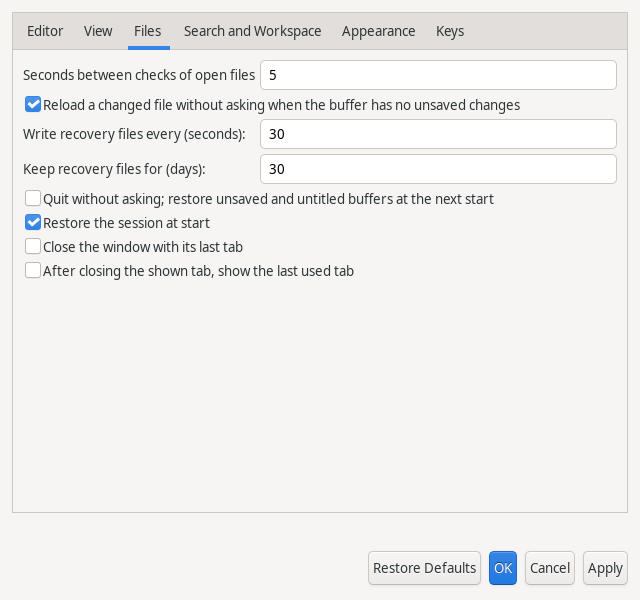
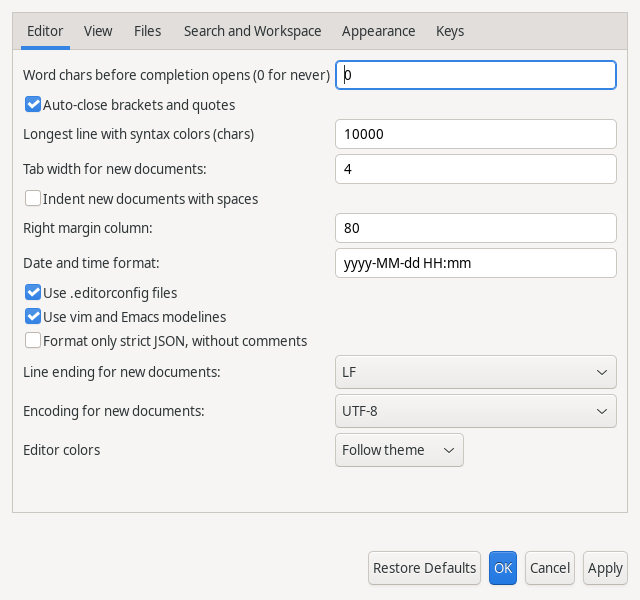
Document the v0.1.1 commands, add their tips, and show Strict JSON and the Insert Number Sequence dialog in the guide

diff --git a/qcaret-app/src/main/java/io/github/ajdailey/qcaret/app/i18n/UiText.java b/qcaret-app/src/main/java/io/github/ajdailey/qcaret/app/i18n/UiText.java
@@ -625,6 +625,26 @@ public enum UiText {
   TIP_COMPLETE_WORD,
   /** A tip; takes {@link #TIP_KEY} formatted, or empty. */
   TIP_KEYBOARD_SHORTCUTS,
+  /** A tip; takes {@link #TIP_KEY} formatted, or empty. */
+  TIP_FORMAT_JSON,
+  /** A tip; takes {@link #TIP_KEY} formatted, or empty. */
+  TIP_ENCODE_DECODE,
+  /** A tip; takes {@link #TIP_KEY} formatted, or empty. */
+  TIP_LINE_CLEANUP,
+  /** A tip; takes {@link #TIP_KEY} formatted, or empty. */
+  TIP_SORT_NUMERIC,
+  /** A tip; takes {@link #TIP_KEY} formatted, or empty. */
+  TIP_NUMBER_SEQUENCE,
+  /** A tip; takes {@link #TIP_KEY} formatted, or empty. */
+  TIP_OPEN_PATH_AT_CARET,
+  /** A tip; takes {@link #TIP_KEY} formatted, or empty. */
+  TIP_COPY_JSON_PATH,
+  /** A tip; takes {@link #TIP_KEY} formatted, or empty. */
+  TIP_FULL_SCREEN,
+  /** A tip without a key. */
+  TIP_RESULTS_COPY,
+  /** A tip without a key. */
+  TIP_STATUS_MENUS,
   /** Command label. */
   COMMAND_SHOW_LOG,
   /** Command label. */

diff --git a/qcaret-app/src/main/java/io/github/ajdailey/qcaret/app/about/TipList.java b/qcaret-app/src/main/java/io/github/ajdailey/qcaret/app/about/TipList.java
@@ -62,6 +62,16 @@ public final class TipList {
     add(list, UiText.TIP_TOGGLE_LINE_COMMENT, CommandId.TOGGLE_LINE_COMMENT);
     add(list, UiText.TIP_COMPLETE_WORD, CommandId.COMPLETE_WORD);
     add(list, UiText.TIP_KEYBOARD_SHORTCUTS, CommandId.KEYBOARD_SHORTCUTS);
+    add(list, UiText.TIP_FORMAT_JSON, CommandId.PRETTY_PRINT_JSON);
+    add(list, UiText.TIP_ENCODE_DECODE, CommandId.BASE64_DECODE);
+    add(list, UiText.TIP_LINE_CLEANUP, CommandId.REMOVE_BLANK_LINES);
+    add(list, UiText.TIP_SORT_NUMERIC, CommandId.SORT_LINES_NUMERIC);
+    add(list, UiText.TIP_NUMBER_SEQUENCE, CommandId.INSERT_NUMBER_SEQUENCE);
+    add(list, UiText.TIP_OPEN_PATH_AT_CARET, CommandId.OPEN_PATH_AT_CARET);
+    add(list, UiText.TIP_COPY_JSON_PATH, CommandId.COPY_JSON_PATH);
+    add(list, UiText.TIP_FULL_SCREEN, CommandId.FULL_SCREEN);
+    add(list, UiText.TIP_RESULTS_COPY, null);
+    add(list, UiText.TIP_STATUS_MENUS, null);
     return List.copyOf(list);
   }
 

diff --git a/qcaret-ui-swt/src/test/java/io/github/ajdailey/qcaret/ui/swt/GuideScreenshotsTest.java b/qcaret-ui-swt/src/test/java/io/github/ajdailey/qcaret/ui/swt/GuideScreenshotsTest.java
@@ -302,11 +302,21 @@ class GuideScreenshotsTest {
     settle();
     save(window.shell(), "guides.png");
 
+    controller.execute(CommandId.INSERT_NUMBER_SEQUENCE);
+    dialog("number-sequence.png");
+    NumberSequenceDialog sequence = window.numberSequenceDialog();
+    sequence.start().setText("0x10");
+    sequence.step().setText("0x10");
+    sequence.width().setSelection(4);
+    sequence.base().select(1);
+    settle();
+    saveDialog("number-sequence.png");
+
     controller.execute(CommandId.PREFERENCES);
     Shell preferences = dialog("preferences.png");
     TabFolder tabs = find(preferences, TabFolder.class);
     assertNotNull(tabs);
-    tabs.setSelection(PreferencesForm.Group.FILES.ordinal());
+    tabs.setSelection(PreferencesForm.Group.EDITOR.ordinal());
     settle();
     saveDialog("preferences.png");
 

diff --git a/qcaret-app/src/test/java/io/github/ajdailey/qcaret/app/about/TipListTest.java b/qcaret-app/src/test/java/io/github/ajdailey/qcaret/app/about/TipListTest.java
@@ -45,6 +45,19 @@ class TipListTest {
   }
 
   @Test
+  void theFullScreenTipNamesEachPlatformsKey() {
+    int fullScreen = indexOf(UiText.TIP_FULL_SCREEN);
+    assertTrue(
+        TipList.text(fullScreen, Keymap.defaults(false, true))
+            .startsWith("View > Full Screen (F11) fills"));
+    Keymap mac = Keymap.defaults(true, false);
+    assertTrue(
+        TipList.text(fullScreen, mac)
+            .startsWith("View > Full Screen (" + mac.menuKeyText(CommandId.FULL_SCREEN) + ") "));
+    assertFalse(mac.menuKeyText(CommandId.FULL_SCREEN).contains("F11"));
+  }
+
+  @Test
   void anUnboundCommandsTipHasNoKey() {
     Keymap keymap = Keymap.defaults(false, true);
     assertEquals("", keymap.menuKeyText(CommandId.ALWAYS_ON_TOP));

diff --git a/docs/user-guide.md b/docs/user-guide.md
@@ -214,7 +214,7 @@ apply (measured on Linux, one million lines):
 | Operation | Time |
 |---|---|
 | Theme switch or font change (View > Zoom In, Zoom Out, Reset Zoom; Preferences) | About 1 s per view; a split document has two |
-| Sort, Remove Duplicate Lines, Trim Trailing Whitespace, line-ending conversion: the new text replaces the document's, with a busy cursor | Sort: 1.2-2.0 s after the sorted text is computed in the background; the others not measured |
+| Sort, the Edit > Line commands, Encode/Decode Text, Format XML and JSON, line-ending conversion: the new text replaces the document's, with a busy cursor | Sort: 1.2-2.0 s after the sorted text is computed in the background; the others not measured |
 
 ## The main window
 
@@ -291,9 +291,9 @@ apply (measured on Linux, one million lines):
   `#`. A blank line ends a paragraph. Undo restores the text in one step.
 - A right click in the text opens Undo, Redo, Cut, Copy, Paste, Select All,
   Toggle Bookmark, Edit Bookmark Comment, Toggle Fold, Open Path at Caret, the
-  Format XML and JSON and Encode/Decode Text cascades, Toggle Line Comment and Convert Case for that
-  view. A click in a selection keeps it; a click elsewhere moves the caret
-  there first.
+  Format XML and JSON and Encode/Decode Text cascades, Toggle Line Comment and
+  the Convert Case cascade for that view. A click in a selection keeps it; a
+  click elsewhere moves the caret there first.
 - The overview strip beside the scroll bar marks find matches, HyperSearch
   matches and bookmarks across the whole document; a click or drag scrolls
   there.
@@ -304,18 +304,19 @@ apply (measured on Linux, one million lines):
 - The status bar shows notices, the read-only marker, line and column, the
   selection, encoding, line endings and language. A click on the language
   chooses a grammar, one on the encoding reopens or saves with another
-  encoding, and one on the line endings converts them to LF, CRLF or CR. A Warnings link appears when QCaret logs a warning and opens
-  Help > Show Log.
+  encoding, and one on the line endings converts them to LF, CRLF or CR. A
+  Warnings link appears when QCaret logs a warning and opens Help > Show Log.
 - The pointer shows the busy cursor, an arrow with a spinner, while a command
   works in the background, and the window stays usable. It shows over the
   window for opening, saving, Save As, Save a Copy, reloading and comparing
   files, line-ending conversion, Recent Files > Clean Up, Open All, dropped
   files, Go Back and Go Forward to a closed file, the workspace browser's folder
   changes, New File, New Folder, Rename and Delete, HyperSearch's folder check,
-  opening a search result, the replace preview, Restore Replace Run's list,
-  Generate from Selection into Clipboard, Reload Grammars, the Help menu's
-  About, licenses, user guide, Debug Log File and folders, and the memory
-  indicator's garbage collection. It shows over the editor for Sort, Remove
+  opening a search result, Open Path at Caret, copying a large set of search
+  results or a long bookmarked line, the replace preview, Restore Replace Run's
+  list, Generate from Selection into Clipboard, Reload Grammars, the Help
+  menu's About, licenses, user guide, Debug Log File and folders, and the
+  memory indicator's garbage collection. It shows over the editor for Sort, Remove
   Duplicate and Blank Lines, Reverse Lines, Trim Leading and Trailing
   Whitespace, Wrap Paragraph, Convert Indentation, Encode/Decode Text, Edit >
   Format XML and JSON, Add Next Occurrence, Go to and Select to Matching Bracket,
@@ -386,15 +387,14 @@ an optional sign, digits and a decimal fraction, so `-2.5` before `10`); lines
 without one follow in their order, and lines with equal numbers keep theirs.
 Convert Indentation rewrites only the spaces and tabs at the start of each line
 at the document's tab width; converting to tabs keeps as spaces the columns
-short of a tab stop. In a
-file mixing CR and LF line endings, these commands, Delete Line, Move Lines,
-Transpose and the trim at Save leave alone any line whose change would merge a CR and an LF
-into one CR LF line ending, and the status bar names how many lines they left.
-Edit > Tab Width (any width from 1 to 16 through Other), Indent with Spaces and
-Read-Only apply to the selected document. Preferences, Editor sets the width
-and the indentation a document without saved settings starts with. The bracket
-beside the caret and the other occurrences of the word at the caret are
-highlighted.
+short of a tab stop. In a file mixing CR and LF line endings, these commands,
+Delete Line, Move Lines, Transpose and the trim at Save leave alone any line
+whose change would merge a CR and an LF into one CR LF line ending, and the
+status bar names how many lines they left. Edit > Tab Width (any width from 1
+to 16 through Other), Indent with Spaces and Read-Only apply to the selected
+document. Preferences, Editor sets the width and the indentation a document
+without saved settings starts with. The bracket beside the caret and the other
+occurrences of the word at the caret are highlighted.
 
 Edit > Encode/Decode Text converts each selection in place and leaves it
 selected; every selection converts or none does, as one undo step, and `Esc`
@@ -422,13 +422,15 @@ replaces every selection, as one undo step. Month and day names follow the
 system's language.
 
 Edit > Insert Number Sequence asks for a start, a step, a width and a base
-(decimal or hex), then writes one number at each caret, in text order, or on
-each row of a block selection from the top, replacing selected text, as one
-undo step. Start and step may be negative and take `0x` before hex digits; the
-dialog refuses a number outside 64 bits, and nothing is inserted when a later
-number would leave that range. Width pads with zeros after any minus sign, so
-`-1` at width 3 is `-01`. Hex is written with a minus sign, never as two's
-complement. The dialog starts from the values used last.
+(decimal, or hex in upper or lower case), then writes one number at each caret,
+in text order, or on each row of a block selection from the top, replacing
+selected text, as one undo step. Start and step may be negative and take `0x`
+before hex digits; the dialog refuses a number outside 64 bits, and nothing is
+inserted when a later number would leave that range. Width pads with zeros
+after any minus sign, so `-1` at width 3 is `-01`. Hex is written with a minus
+sign, never as two's complement. The dialog starts from the values used last.
+
+![The Insert Number Sequence dialog with a hex sequence](images/guide/number-sequence.png)
 
 Tools > Document Statistics shows the selected document's lines, words,
 characters, characters without spaces and bytes in its encoding, and the same
@@ -889,10 +891,10 @@ Linux it needs GTK 3 on X11; under Wayland or GTK 4 the item is disabled, and
 the window manager's window menu (`Alt+Space` on most desktops) offers the same.
 
 View > Full Screen (`F11`; `Control+Cmd+F` on macOS) fills the screen with the
-window; the same command returns it. On Linux and Windows the menu bar stays; on macOS
-the window moves to its own space, the menu bar shows at the top edge, and the
-window's green button does the same. `Esc` does not leave full screen. A
-restart opens the window at its size before full screen.
+window; the same command returns it. On Linux and Windows the menu bar stays;
+on macOS the window moves to its own space, the menu bar shows at the top edge,
+and the window's green button does the same. `Esc` does not leave full screen.
+A restart opens the window at its size before full screen.
 
 Drag a tab out of every QCaret window to open it in a new window, or onto another
 window's tab strip to dock it there; Window > Move to New Window and the tab
@@ -934,7 +936,7 @@ File associations: on Linux run `bin/install-desktop-entry`; on Windows run
 
 ## Preferences
 
-![Preferences on the Files tab](images/guide/preferences.png)
+![Preferences on the Editor tab](images/guide/preferences.png)
 
 Tools > Preferences (`Ctrl+,`; the application menu on macOS) applies to the
 running windows without a restart.

diff --git a/README.md b/README.md
@@ -20,22 +20,23 @@ search results" width="880"> </picture>
 
 | Area | Summary | Guide |
 |---|---|---|
-| Editing | Tabs with undo and redo, line commands, case and indent commands, Transpose, Delete Word, Wrap Paragraph, word completion, bracket matching, auto-close, smart indent, sort, duplicate removal and trailing-whitespace trim, Insert Date and Time, Document Statistics, read-only documents, a command palette | [Editing](docs/user-guide.md#editing) |
+| Editing | Tabs with undo and redo, line commands, case and indent commands, Transpose, Delete Word, Wrap Paragraph, word completion, bracket matching, auto-close, smart indent, sort (also numeric), duplicate and blank line removal, reverse, whitespace trims, indentation conversion, Encode/Decode Text (Base64, URL, XML entities, JSON strings), Insert Date and Time, Insert Number Sequence, Document Statistics, read-only documents, a command palette, context menus | [Editing](docs/user-guide.md#editing) |
+| XML and JSON | Pretty Print, Minify and Check Well-Formed of a selection or the document, JSON comments kept unless Strict JSON is on, Copy XML Path and Copy JSON Path | [Formatting XML and JSON](docs/user-guide.md#formatting-xml-and-json) |
 | Carets | Multiple carets and selections (Mod+click, Mod+drag, a key per row, next occurrence, every occurrence, Skip Occurrence), Expand Selection, Select Line, Undo Selection, block selection by Alt+drag or keys, column selection mode | [Multiple carets](docs/user-guide.md#multiple-carets-and-block-selection) |
-| Encodings | Detection from the byte order mark, a declaration or the content; Reopen with Encoding and Save with Encoding; line-ending conversion; files that would not write back byte for byte open read-only; binary files open read-only after a prompt | [Encodings](docs/user-guide.md#encodings) |
+| Encodings | Detection from the byte order mark, a declaration or the content; Reopen with Encoding and Save with Encoding; line-ending conversion, also from the status bar; files that would not write back byte for byte open read-only; binary files open read-only after a prompt | [Encodings](docs/user-guide.md#encodings) |
 | Per-file settings | Tab width, indentation, line ending, encoding and Save cleanup from `.editorconfig` files and vim and Emacs modelines | [Per-file settings](docs/user-guide.md#per-file-settings) |
 | Editor display | Right margin line, indent guides, modified-line marks against the saved text, word wrap, whitespace and line-ending marks, split views | [Main window](docs/user-guide.md#the-main-window) |
 | Syntax highlighting | 35 languages and 12 file formats, user grammars, comment commands, folding by brackets, block keywords, section headers, comments and strings, region markers or indentation | [Syntax highlighting](docs/user-guide.md#syntax-highlighting), [Folding](docs/user-guide.md#folding) |
-| Search and HyperSearch | Find bar with incremental find and history; HyperSearch over a document, a selection, the open documents, the workspace folder or a directory tree, into a results dock that keeps ten sets and marks stale matches | [Search](docs/user-guide.md#search-and-hypersearch) |
+| Search and HyperSearch | Find bar with incremental find and history; HyperSearch over a document, a selection, the open documents, the workspace folder or a directory tree, into a results dock that keeps ten sets, marks stale matches and copies matches as `path:line: text` | [Search](docs/user-guide.md#search-and-hypersearch) |
 | Replace across files | Replace in a finished result set with a preview, a report per file, backups and a restore | [Replace](docs/user-guide.md#replace) |
 | Bookmarks and navigation | Bookmarks with comments and a Bookmarks list, Go Back and Go Forward, Go to Line, the overview strip | [Bookmarks](docs/user-guide.md#bookmarks), [Main window](docs/user-guide.md#the-main-window) |
-| Workspace and Quick Open | A workspace folder per window; a browser that shows any folder, with favorites, a filter, Size and Modified columns, several rows selected at once, drag to open or copy, Search in Folder, New File, New Folder, Rename and Delete; Quick Open over the open documents, the folder's files and Recent Files; Switch Document; Go to Symbol | [Workspace](docs/user-guide.md#workspace), [Quick Open](docs/user-guide.md#quick-open) |
+| Workspace and Quick Open | A workspace folder per window; a browser that shows any folder, with favorites, a filter, Size and Modified columns, several rows selected at once, drag to open or copy, Search in Folder, New File, New Folder, Rename and Delete; Quick Open over the open documents, the folder's files and Recent Files; Switch Document; Go to Symbol; Open Path at Caret, honoring a `:line` suffix | [Workspace](docs/user-guide.md#workspace), [Quick Open](docs/user-guide.md#quick-open), [Opening files](docs/user-guide.md#opening-files) |
 | Checksums | MD5, SHA-1, SHA-256 and SHA-512 of typed text, files or the selection; Verify Checksums over a `sha256sum` list | [Checksums](docs/user-guide.md#checksums) |
 | Compare | Side-by-side read-only comparison of two documents, a document and its file, or two files from the command line | [Compare](docs/user-guide.md#compare) |
 | Printing | Page ranges, copies, the selection, line numbers and syntax colors, in the background | [Printing](docs/user-guide.md#printing) |
 | External changes | Each open file checked on a poll and on window activation; a clean document reloads, a dirty one asks: Keep Mine, Reload or Compare | [External changes](docs/user-guide.md#external-changes) |
 | Sessions and recovery | Session restore of windows, tabs, carets, splits, folds, bookmarks and docks; per-file state; recovery files for unsaved buffers after a crash | [Sessions](docs/user-guide.md#sessions-and-recovery) |
-| Windows and single instance | Several windows with live tab moves; Always on Top per window; a second launch hands its files to the running instance; file associations | [Windows](docs/user-guide.md#windows-and-the-running-instance) |
+| Windows and single instance | Several windows with live tab moves; Always on Top per window; Full Screen; a second launch hands its files to the running instance; file associations | [Windows](docs/user-guide.md#windows-and-the-running-instance) |
 | Large files | Loads with progress and Cancel; a file must fit the heap; no file over 2 GiB opens; a status bar memory indicator | [Large files](docs/user-guide.md#large-files) |
 | Preferences and themes | Preferences applied without a restart, key bindings, editor font, light, dark and system themes, bundled editor color schemes, theme files | [Preferences](docs/user-guide.md#preferences) |
 | Help | Keyboard Shortcuts, Command-Line Options, the user guide in its own window, Tip of the Day, Show Log with a warning marker, debug log file, Report an Issue, About and Licenses | [Help](docs/user-guide.md#help-and-logs) |

diff --git a/qcaret-app/docs/views-and-commands.md b/qcaret-app/docs/views-and-commands.md
@@ -59,7 +59,7 @@ not run. A new user-started operation uses it.
 
 | Cursor | Operations |
 |---|---|
-| Window, through `BusyWork` | Save As and Save a Copy target checks, the copy write, save cleanup, `FileReload`, `DocumentEncodings`, `SelectionDelete`, `RecentFiles` Clean Up, `OpenAll`, `DroppedFiles`, `NavigationHistory` to a closed file, `WorkspaceController` set and Open in Default Application, `WorkspaceBrowse` folder changes, `WorkspaceFiles` create and rename, HyperSearch's folder check, `ResultsNavigation.check`, `OpenPathAtCaret`, the replace previews, `ReplaceRestore`, the checksum list save, `SelectionChecksum`, `GrammarLibrary.reload`, every `HelpController` worker, `MemoryIndicator.collect` |
+| Window, through `BusyWork` | Save As and Save a Copy target checks, the copy write, save cleanup, `FileReload`, `DocumentEncodings`, `SelectionDelete`, `RecentFiles` Clean Up, `OpenAll`, `DroppedFiles`, `NavigationHistory` to a closed file, `WorkspaceController` set and Open in Default Application, `WorkspaceBrowse` folder changes, `WorkspaceFiles` create and rename, HyperSearch's folder check, `ResultsNavigation.check`, `OpenPathAtCaret`, `ResultsCopy` and `BookmarkList` Copy Line on a worker, the replace previews, `ReplaceRestore`, the checksum list save, `SelectionChecksum`, `GrammarLibrary.reload`, every `HelpController` worker, `MemoryIndicator.collect` |
 | Window, by hand | `DocumentOpener` (one load spans the path check, the read and the listener's answer), `SaveAndReload.write` (posts its result while holding the file's write lock, so a later save's result lands after it), `CompareController` (an IO read then a CPU build, ended by `dispose` too) |
 | Editor, through `BusyWork` on `EditorController.busyCursor` | `EditorController` Add Next Occurrence and Go to Matching Bracket, `FoldScheduling` Fold All, `LineTransformRuns`, `CodecRuns`, `FormatRuns`, `CaretPathRuns`, `SelectionCommands`; `DocumentEncodings` raises the window's counter and the counter of each view of the document |
 
@@ -147,7 +147,7 @@ ampersand), and no two in one menu share one (`MenuTableTest`,
 | Menu | Holds, `\|` between groups |
 |---|---|
 | File | New, Open, Reload from Disk \| Recent Files, Reopen Closed Tab, Recently Closed \| Set Workspace Folder, Quick Open, Open Path at Caret \| the saves \| Close, Close All, Close Multiple Tabs (Close Others, Close to the Left, Close to the Right) \| Print, Print Selection \| Exit |
-| Edit | Undo, Redo \| clipboard \| Select All \| the Line, Sort Lines and Convert Case cascades \| comments \| indent, Tab Width, Indent with Spaces \| Complete Word, Insert Date and Time, Insert Number Sequence, Transpose, Delete Word Back and Forward \| Read-Only |
+| Edit | Undo, Redo \| clipboard \| Select All \| the Line, Sort Lines, Convert Case, Encode/Decode Text and Format XML and JSON cascades \| comments \| indent, Tab Width, Indent with Spaces \| Complete Word, Insert Date and Time, Insert Number Sequence, Transpose, Delete Word Back and Forward \| Read-Only |
 | Selection | Select Line, Expand Selection, Select to Matching Bracket \| carets and occurrences, Split into Lines \| Column Selection Mode \| Undo and Redo Selection |
 | Search | Find, Find Next, Find Previous, Replace \| HyperSearch and its results \| Go to Line, Go to Symbol, Go to Matching Bracket, Go Back, Go Forward \| Bookmarks, with Edit Bookmark Comment |
 | View | Word Wrap and the display toggles \| Syntax, Folding \| Split, Compare \| zoom \| Theme, Toolbar, Memory Indicator, Workspace Browser, Always on Top, Full Screen \| Command Palette |

diff --git a/qcaret-ui-swt/TESTING.md b/qcaret-ui-swt/TESTING.md
@@ -81,6 +81,7 @@ test case.
 | `MainWindowTest` | The requested client size and position under X11, clamping to the work area, close requests, the dispatcher after disposal |
 | `ShellWindowTest` | Opening and closing documents enabling and disabling Save, Paste and Next Tab with no menu shown; the Other encoding cascades filled once; one tab menu reused across tabs and after a drag, with the dragged document still shown; a font change that keeps the `StyledText`, the menu bar and the focus; the status fields; the warning marker and the log window; the busy count; the binary prompt, its marked tab and status, Save disabled and a typed key refused; column 150, where the widget's x must match `ColumnMetrics` within 1 px and a secondary caret's pixels must sit at the widget's position |
 | `ToolbarAndMenusTest` | The toolbar's order, icons and tool tips, its buttons against `CommandStates`, View > Toolbar with the choice in the settings file, a live theme switch's ink and faded buttons, a narrow window; posted Ctrl+X, Ctrl+V, Ctrl+C and Ctrl+Z in the find field with the items disabled and Ctrl+C in a read-only view, on GTK 3; the editor menu's selection rule, keyboard request, commands, split-view target and key change; the tab menu's side closes; no repeated mnemonic in any built menu, cascade (Encoding's charsets and View > Syntax included) or the editor and tab menus, and the Window menu's document entry numbered `&1`; the Edit > Encode/Decode Text, Line and Sort Lines cascades in order with their separators; View > Line Numbers in existing and later views; the menu items' icons with a theme switch both ways; Minimize (`Cmd+M`) and Zoom at the Window menu's top only where `windowMenuControls` holds, and their order; the accessible names of the tab strip group and buttons, the overview strip and each view, a view's following the dirty title and a split view taking it |
+| `ContextMenusTest` | In a real window: the editor menu's Format, Encode/Decode and Convert Case cascades matching the Edit menu's and running, Toggle Fold and Toggle Line Comment as top items; the status bar's line-ending popup with the current ending checked and rebuilt per click, and the encoding popup kept, with both cascades reopening and saving; the results and bookmarks docks' menus selecting the row under the pointer, Copy, Copy All Results, Pin, Remove Set, Copy Line, Clear All, and their items disabled over an empty table. Popups are hidden before the next drain, since a win32 popup holds the test in its loop |
 | `MemoryGaugeTest` | View > Memory Indicator showing the figures at the status bar's right end with the maximum heap in text and tool tip, the choice in the settings file, hidden again; a click's notice of the heap freed; the fill width and color mix; the text readable when the foreground matches the background; the accessible name `Memory` and the text. With `-Dqcaret.rm.out=<dir>`, the window with this JVM's figures and with a 40% fill, light and dark |
 | `MenuIconsTest` | The command-to-icon table, both inks at both sizes, the shared root element, `MenuIcons` per platform |
 | `TabMoveGuiTest` | The menu items and tab drags over real shells, with a `PointerProbe` naming the control under the release |

diff --git a/qcaret-launcher/README.md b/qcaret-launcher/README.md
@@ -214,7 +214,7 @@ classes, so the rules over the main classes never see them.
 | A string starting `org.eclipse.swt.internal.` only in `ui.swt.platform` and the reflection classes above | SWT internal properties and class names go through `PlatformTraits`; the check reads each class file's constant pool |
 | `core` does not depend on `app`, `ui` or `launcher`; `app` not on `ui` or `launcher` | Layering |
 | `app.view` not on `app.{controller, search, config, session, recovery, cli, ipc}`; `app.editor` not on `app.controller`; `ui.swt` not on `core.{concurrent, io, buffer, edit, syntax, search, diff, watch, workspace}` or `app.{config, session, recovery, cli, ipc}` | Layering |
-| Core layers, lowest first: `util`, `concurrent`, `io`, `text`, `buffer`, `document`, then `edit`, `syntax`, `search`, `diff`, which do not use each other; `watch` and `workspace` use `io` and below | Layering; an empty layer passes |
+| Core layers, lowest first: `util`, `concurrent`, `io`, `text`, `buffer`, `document`, then `edit`, `syntax`, `search`, `diff`, `format`, which do not use each other; `watch` and `workspace` use `io` and below | Layering; an empty layer passes |
 | No package cycles | Layering |
 | `core.util` depends on no other QCaret package | Utilities stay leaf classes |
 | Every `UiText` constant is read outside `UiText` | No unused bundle entry |
@@ -235,7 +235,7 @@ classes, so the rules over the main classes never see them.
 | A code unit that creates a `Shell` calls `Dialogs.inheritIcons` and `DialogSurfaces.apply`, except `MainWindow`'s top-level shell and `CompletionPopup` | Every dialog carries the application icon and the platform's dialog colors |
 | `ui.swt` does not call `Document.apply`, `undo` or `redo` | Every edit goes through a controller |
 | `ui.swt` does not call `ThemeController.mode`, `DocumentController.wrap` or `count`, `LogFiles.attached`, or the `Document` state getters (`isReadOnly`, `isDirty`, `canUndo`, `canRedo`, `encoding`, `lineEndings`) | `CommandStates` computes menu and status state |
-| `DocumentBuilderFactory`, `SAXParserFactory` and `XMLInputFactory` only in `core.syntax` | Grammar files are the only XML parsed |
+| `DocumentBuilderFactory`, `SAXParserFactory`, `XMLInputFactory` and `SchemaFactory` only in `core.xml` | `SecureXml` sets up every parser with external DTD, schema and entity access off ([XML parsers](../qcaret-core/docs/grammars.md#xml-parsers)) |
 | The string `os.name` only in `core.util.os` | Operating system questions go through `OsTraits`; the check reads each class file's constant pool, since ArchUnit does not see call arguments |
 | No `SWT.getPlatform()` or string `SWT_GTK4` in `core`, `app` or `launcher` | Toolkit platform questions stay in the view layer |
 

diff --git a/qcaret-app/TESTING.md b/qcaret-app/TESTING.md
@@ -176,6 +176,7 @@ after the change.
 | `ReplaceAllRunTest` | Replace All landing in its own document after a tab switch while its worker is held, closing that document canceling it with no edit, more than 10,000 matches applied as one replacement with the caret mapped and one undo step, and the joined text between replacements |
 | `FindControllerTest` | Incremental find and highlights, wrap notices, the selection seed, a result dropped after an edit, regex and replacement failures, Replace and Replace All as one undo step each, the notice for a Replace All dropped after an edit, Esc dropping extra carets before it closes the bar, a regex replacement with the line ending, a read-only document, highlights in both views and their shift on an edit; the saved history (what saves an entry, the 20-entry and 1,000-char limits, a refused Replace saving nothing, the text list shared with HyperSearch) |
 | `SearchControllerTest` | Every scope; a dirty buffer searched as edited inside a tree search; the dock's rows; opening a match in an open document and in a closed file; an edit moving a match and one marking it stale; a file changed on disk; Next and Previous Result wrapping with a notice; a stopped rerun keeping the finished set and a done one replacing it; the retained limit with a pin; the dialog's seed and history; the refused requests; the workspace folder; a tree searched through a symbolic link reading the open buffer once |
+| `ResultsCopyTest` | The dock's Copy of a match, a group and a set and Copy All Results newest first, as `path:line: text` with spaces and non-ASCII names; a group's lines after an edit, an untitled document's tab name; a 100,000-match set built on a worker under the busy cursor with the budget released after, and refused with a notice when the budget refuses it |
 | `HyperSearchTest` | Documents and a folder in one set, the match limit, a refused reservation, a cancel, a regex overflow on its group, a document group following edits |
 | `HyperSearchWorkTest` | The memory charge of a set, a long line charged by its snippets, the memory and match limits, the UI posts per search |
 | `SearchResultsTest` | Through `SearchController`: the notes of a running, rerunning, stopped, truncated, restored and pinned set and a skipped binary file; Rerun File and Replace refused while a set runs; Rerun File on an open file and on a selection set; a closed untitled document's matches and a closed file opened again; Next and Previous Result after the navigated set is cleared; hiding and showing the dock |
